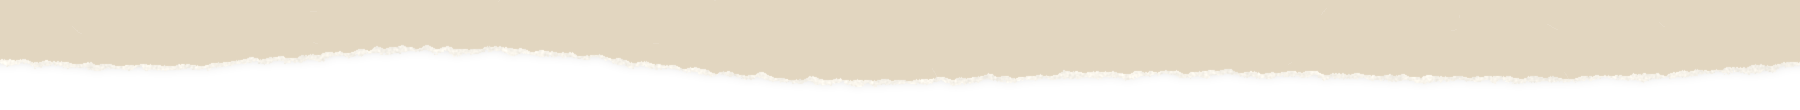
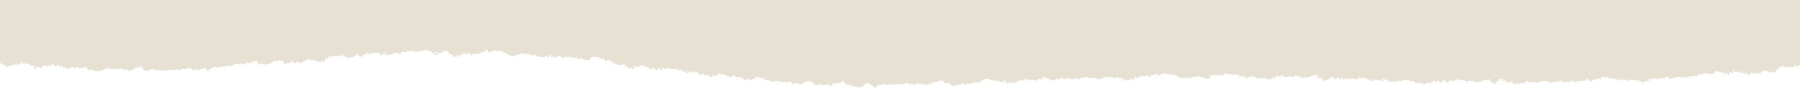
Aplica a paleta do guia visual (Azul & Champagne) com o verde-musgo
- Fundos marfim (#F2EFE6) e champagne (#E7E1D4); terracota suave
  (#CE7A66) nos itálicos; marrom (#8D5A32) nos títulos pequenos e
  anotações; azul do noivo (#7F93A3) na capa
- Verde-musgo mantido nos blocos escuros e botões, com detalhes em
  dourado queimado (#D2B17E): itálicos, títulos pequenos, "+" das
  dúvidas, rodapé e música
- Presentes em rosé terracota (#CC8C7D) com texto escuro
- Pêssego claro (#F1C8B2) no lugar do amarelo; fitas douradas
- Bordas de papel rasgado repintadas e com versão no endereço para
  não ficarem presas no cache

Claude-Session: https://claude.ai/code/session_01MjBZuEXkYrMwf9P5BCvSAk

diff --git a/site/index.html b/site/index.html
@@ -8,8 +8,8 @@
 <style>
 /* Layout: colagem de papel rasgado. Cada seção é uma folha de cor diferente, fotos recortadas à mão por cima, anotações a caneta nas margens. */
 :root{
-  --cream:#EFE8DC; --sand:#E2D6C0; --paper:#F7F3EA;
-  --moss:#3E4C34; --moss-ink:#2A3424; --terra:#C0643F; --terra-deep:#9E4A2A; --sea:#346068;
+  --cream:#F2EFE6; --sand:#E7E1D4; --paper:#F7F3EA;   /* marfim claro e champagne do guia */
+  --moss:#3E4C34; --moss-ink:#2A3424; --terra:#CE7A66; --terra-deep:#8D5A32; --sea:#7F93A3;   /* terracota suave, marrom e azul do noivo */
   --ink:#1F241B; --muted:#5E5A4E; --line:#CFC3AC; --on-dark:#F1EBDF; --on-dark-mute:#C9C6B4;
   --f-display:"Instrument Serif", "Didot", "Bodoni 72", Georgia, serif;
   --f-body:"Manrope", "Avenir Next", "Segoe UI", system-ui, sans-serif;
@@ -34,7 +34,7 @@ h1,h2,h3{font-family:var(--f-display);font-weight:400;line-height:1;text-wrap:ba
 h2{font-size:clamp(2.6rem,6vw,4.6rem)}
 h2 em,h1 em{color:var(--terra)}
 p{margin:0}
-.eyebrow{font:600 .72rem/1.3 var(--f-body);letter-spacing:.24em;text-transform:uppercase;color:var(--muted)}
+.eyebrow{font:600 .72rem/1.3 var(--f-body);letter-spacing:.24em;text-transform:uppercase;color:var(--terra-deep)}
 .hand{font-family:var(--f-hand);line-height:1.3;font-weight:400}
 .lede{max-width:52ch;color:var(--muted);font-size:1.06rem}
 .sec{padding-block:clamp(56px,9vw,110px)}
@@ -43,10 +43,10 @@ p{margin:0}
 /* bordas rasgadas entre folhas */
 .edge{height:clamp(44px,6.2vw,110px);background-repeat:repeat-x;background-position:center bottom;background-size:max(1400px,100%) 100%;margin-top:calc(-1 * clamp(20px,3vw,50px));position:relative;z-index:2;pointer-events:none}
 .edge.b{background-position:center top;margin-top:0;margin-bottom:calc(-1 * clamp(20px,3vw,50px))}
-.bg-sand{background:var(--sand)} .bg-moss{background:var(--moss);color:var(--on-dark)} .bg-terra{background:var(--terra);color:var(--on-dark)}
-.bg-moss .eyebrow,.bg-terra .eyebrow{color:var(--on-dark-mute)}
-.bg-moss h2 em{color:#E7A57F} .bg-terra h2 em{color:var(--moss-ink)}
-.bg-moss .lede,.bg-terra .lede{color:var(--on-dark-mute)}
+.bg-sand{background:var(--sand)} .bg-moss{background:var(--moss);color:var(--on-dark)} .bg-terra{background:#CC8C7D;color:var(--ink)}
+.bg-moss .eyebrow{color:var(--gold)} .bg-terra .eyebrow{color:#3B3530}
+.bg-moss h2 em{color:var(--gold)} .bg-terra h2 em{color:var(--cream)}
+.bg-moss .lede{color:var(--on-dark-mute)} .bg-terra .lede{color:#3B3530}
 
 /* nav */
 .nav{position:sticky;top:env(safe-area-inset-top,0px);z-index:50;background:color-mix(in srgb,var(--cream) 90%,transparent);backdrop-filter:blur(8px);-webkit-backdrop-filter:blur(8px)}
@@ -75,12 +75,12 @@ p{margin:0}
 .r1{background:var(--moss-ink);color:var(--on-dark);font:800 .78em/1 var(--f-body);transform:rotate(-4deg)}
 .r2{background:var(--paper);color:var(--ink);font:italic 400 1em/1 var(--f-display);transform:rotate(3deg)}
 .r3{background:var(--terra);color:var(--paper);font:400 .95em/1 var(--f-display);transform:rotate(-2deg)}
-.r4{background:#F2D7A7;color:var(--ink);font:600 .7em/1 ui-monospace,Menlo,monospace;transform:rotate(5deg)}
+.r4{background:#F1C8B2;color:var(--ink);font:600 .7em/1 ui-monospace,Menlo,monospace;transform:rotate(5deg)}
 .r5{background:var(--sea);color:var(--paper);font:800 .74em/1 var(--f-body);transform:rotate(-6deg)}
 .r6{background:var(--paper);color:var(--terra-deep);font:400 1.05em/1 var(--f-display);transform:rotate(-1deg);text-transform:uppercase}
 
 /* fita adesiva */
-.tape{position:absolute;width:90px;height:26px;background:rgba(236,224,190,.72);box-shadow:0 1px 2px rgba(0,0,0,.08);z-index:3;clip-path:polygon(0 8%,6% 0,12% 10%,20% 2%,30% 6%,100% 0,96% 50%,100% 100%,0 100%,4% 50%)}
+.tape{position:absolute;width:90px;height:26px;background:rgba(210,177,126,.6);box-shadow:0 1px 2px rgba(0,0,0,.08);z-index:3;clip-path:polygon(0 8%,6% 0,12% 10%,20% 2%,30% 6%,100% 0,96% 50%,100% 100%,0 100%,4% 50%)}
 
 /* hero */
 .hero{position:relative;overflow:hidden;padding-top:clamp(24px,4vw,40px)}
@@ -169,7 +169,7 @@ p{margin:0}
 .notebox:nth-child(2){transform:rotate(1deg)}
 .notebox:nth-child(3){transform:rotate(-.6deg)}
 .note-p{display:grid;gap:8px;padding:26px 28px;background:var(--paper)}
-.notebox:nth-child(2) .note-p{background:#F2D7A7}
+.notebox:nth-child(2) .note-p{background:#F1C8B2}
 .note-p h3{font-size:1.7rem}
 .note-p p{color:var(--muted)}
 .note-p .row{margin-top:8px}
@@ -218,7 +218,7 @@ fieldset.field .choice{clear:both}
 .gift:nth-child(odd){transform:rotate(-.8deg)} .gift:nth-child(even){transform:rotate(.7deg)}
 .gift:hover{transform:translateY(-4px) rotate(0)}
 .gift::after{content:"";position:absolute;left:14px;right:14px;bottom:62px;border-top:1.5px dashed var(--line)}
-.gift[aria-pressed="true"]{background:#F2D7A7}
+.gift[aria-pressed="true"]{background:#F1C8B2}
 .gift .k{font:600 .64rem/1.4 var(--f-body);letter-spacing:.22em;text-transform:uppercase;color:var(--terra-deep)}
 .gift h3{font-size:1.7rem}
 .gift p{color:var(--muted);font-size:.93rem;margin-bottom:26px}
@@ -251,14 +251,15 @@ fieldset.field .choice{clear:both}
 details{border-bottom:1px solid rgba(241,235,223,.25)}
 summary{list-style:none;cursor:pointer;display:flex;justify-content:space-between;gap:16px;align-items:center;padding:20px 2px;font:400 1.5rem/1.2 var(--f-display)}
 summary::-webkit-details-marker{display:none}
-summary::after{content:"+";font:300 1.7rem/1 var(--f-body);color:#E7A57F;transition:transform .25s}
+summary::after{content:"+";font:300 1.7rem/1 var(--f-body);color:var(--gold);transition:transform .25s}
 details[open] summary::after{transform:rotate(45deg)}
 details p{padding:0 2px 22px;color:var(--on-dark-mute);max-width:60ch}
 footer{background:var(--moss);color:var(--on-dark);text-align:center}
 footer .wrap{padding-block:20px 64px;display:grid;gap:12px;justify-items:center}
 footer .big{font:400 clamp(1.8rem,5.4vw,4rem)/1.2 var(--f-caps);letter-spacing:.16em;text-transform:uppercase}
 footer .big em{font-family:var(--f-display);text-transform:none;letter-spacing:0;font-size:1.15em}
-footer .big em{color:#E7A57F}
+footer .big em{color:var(--gold)}
+footer .hand{color:var(--gold)!important}
 footer p{color:var(--on-dark-mute)}
 footer .hand{font-size:1.6rem;color:var(--on-dark)}
 
@@ -298,7 +299,7 @@ footer .hand{font-size:1.6rem;color:var(--on-dark)}
 /* capa */
 .cover{position:relative;overflow:hidden;background:var(--sea)}
 .cover video{display:block;width:100%;height:min(88vh,920px);min-height:420px;object-fit:cover;object-position:50% 40%}
-.cover-edge{position:absolute;z-index:2;left:0;right:0;bottom:-2px;height:clamp(70px,11vw,200px);background:url(media/edge-hero.png) center bottom / max(1300px,100%) 100% repeat-x}
+.cover-edge{position:absolute;z-index:2;left:0;right:0;bottom:-2px;height:clamp(70px,11vw,200px);background:url(media/edge-hero.png?v=2) center bottom / max(1300px,100%) 100% repeat-x}
 .cover .sim{position:absolute;right:max(16px,7vw);top:clamp(24px,5vw,70px);font-size:clamp(1.8rem,3.6vw,3.2rem);left:auto}
 .cover-note{position:absolute;right:max(16px,6vw);top:clamp(90px,12vw,190px);font-size:clamp(1.5rem,3vw,2.8rem);color:#fff;transform:rotate(-7deg);text-align:center;text-shadow:0 1px 8px rgba(0,40,70,.35)}
 .names-sec{text-align:center;position:relative;z-index:3;padding-top:clamp(36px,5vw,70px)}
@@ -317,7 +318,7 @@ footer .hand{font-size:1.6rem;color:var(--on-dark)}
 .ph{margin:0;position:relative}
 .ph img{width:100%;height:auto}
 .ph figcaption{font-size:clamp(1.2rem,2vw,1.6rem);margin-top:-14px;padding-left:8%;transform:rotate(-2deg)}
-.bg-moss .ph figcaption,.bg-terra .ph figcaption{color:var(--on-dark)}
+.bg-moss .ph figcaption{color:var(--on-dark)} .bg-terra .ph figcaption{color:var(--ink)}
 .pbreak{padding-block:clamp(30px,6vw,80px)}
 .single{max-width:880px;margin-inline:auto}
 .pair{display:grid;grid-template-columns:1fr 1fr;gap:clamp(16px,5vw,72px);max-width:1080px;margin-inline:auto;align-items:start}
@@ -350,8 +351,8 @@ footer .hand{font-size:1.6rem;color:var(--on-dark)}
 /* faixas de ponta a ponta */
 .band{position:relative;height:clamp(320px,52vw,720px);background-size:cover;background-repeat:no-repeat;margin-top:clamp(10px,2vw,30px)}
 .band-edge{position:absolute;left:0;right:0;height:clamp(60px,9vw,170px);background-repeat:repeat-x;background-size:max(1300px,100%) 100%;pointer-events:none}
-.band-edge.bot{bottom:-2px;background-image:url(media/edge-hero.png);background-position:center bottom}
-.band-edge.top{top:-2px;background-image:url(media/edge-hero-b.png);background-position:center top}
+.band-edge.bot{bottom:-2px;background-image:url(media/edge-hero.png?v=2);background-position:center bottom}
+.band-edge.top{top:-2px;background-image:url(media/edge-hero-b.png?v=2);background-position:center top}
 .band + .edge{margin-top:calc(-1 * clamp(44px,6.2vw,110px) + 2px)}
 .skate-band{position:relative;margin-top:clamp(50px,8vw,100px);width:100%}
 .skate-band video{display:block;width:100%;height:clamp(360px,52vw,760px);object-fit:cover;object-position:50% 50%}
@@ -359,7 +360,7 @@ footer .hand{font-size:1.6rem;color:var(--on-dark)}
 .vids{grid-template-columns:repeat(2,minmax(0,1fr));max-width:760px}
 .vid:nth-child(1){transform:rotate(-2.5deg) translateY(20px)}
 .gift-pics{max-width:900px;margin:0 auto clamp(40px,6vw,70px)}
-.gift-pics .ph figcaption{color:var(--on-dark)}
+.gift-pics .ph figcaption{color:var(--ink)}
 @media (max-width:640px){ .skate-band video{height:70vh} .vids{grid-template-columns:repeat(2,minmax(0,1fr))} }
 .gift-pics{display:flex!important;justify-content:center;align-items:flex-end;gap:clamp(12px,3vw,40px)!important;flex-wrap:nowrap}
 .gift-pics .ph:nth-child(2){margin-top:0}
@@ -385,7 +386,7 @@ footer .hand{font-size:1.6rem;color:var(--on-dark)}
 /* música */
 .music{position:fixed;right:calc(16px + env(safe-area-inset-right,0px));bottom:calc(16px + env(safe-area-inset-bottom,0px));z-index:65;display:inline-flex;align-items:center;gap:10px;padding:10px 16px 10px 12px;border:0;border-radius:999px;background:var(--moss-ink);color:var(--on-dark);font:600 .78rem/1 var(--f-body);letter-spacing:.06em;cursor:pointer;box-shadow:0 6px 18px rgba(0,0,0,.25)}
 .music .bars{display:inline-flex;gap:2px;align-items:flex-end;height:14px}
-.music .bars i{width:3px;height:4px;background:#E7A57F;border-radius:1px}
+.music .bars i{width:3px;height:4px;background:var(--gold);border-radius:1px}
 .music.on .bars i{animation:eq 1s ease-in-out infinite}
 .music.on .bars i:nth-child(2){animation-delay:-.3s}.music.on .bars i:nth-child(3){animation-delay:-.6s}
 @keyframes eq{0%,100%{height:4px}50%{height:14px}}
@@ -635,7 +636,7 @@ html.locked,html.locked body{overflow:hidden}
   <div class="band-edge top" aria-hidden="true"></div>
 </section>
 
-<div class="edge" style="background-image:url(media/edge-moss.png)" aria-hidden="true"></div>
+<div class="edge" style="background-image:url(media/edge-moss.png?v=2)" aria-hidden="true"></div>
 <section class="sec bg-moss" style="padding-top:clamp(40px,6vw,70px);padding-bottom:0" aria-labelledby="t-vid">
   <div class="wrap">
     <div class="head" style="text-align:center;justify-items:center">
@@ -654,7 +655,7 @@ html.locked,html.locked body{overflow:hidden}
   </div>
   <div class="skate-band frame-wrap">
     <video data-src="media/skate.mp4" poster="media/skate-poster.jpg" autoplay muted loop playsinline preload="none" aria-label="Vídeo: Mayara andando de skate sentada no estacionamento"></video>
-    <div class="band-edge top" style="background-image:url(media/edge-moss-b.png)" aria-hidden="true"></div>
+    <div class="band-edge top" style="background-image:url(media/edge-moss-b.png?v=2)" aria-hidden="true"></div>
     <div class="band-edge bot" aria-hidden="true"></div>
   </div>
 </section>
@@ -721,7 +722,7 @@ html.locked,html.locked body{overflow:hidden}
   </div>
 </section>
 
-<div class="edge" style="background-image:url(media/edge-sand.png)" aria-hidden="true"></div>
+<div class="edge" style="background-image:url(media/edge-sand.png?v=2)" aria-hidden="true"></div>
 <section class="sec place bg-sand" id="local">
   <div class="wrap">
     <div class="place-art">
@@ -764,7 +765,7 @@ html.locked,html.locked body{overflow:hidden}
     <figure class="ph single" style="max-width:760px"><img data-src="media/jardim.webp" alt="Os dois num banco de jardim com dois cachorros, em São Leopoldo"><figcaption class="hand">São Leopoldo, RS</figcaption></figure>
   </div>
 </section>
-<div class="edge b" style="background-image:url(media/edge-sand-b.png)" aria-hidden="true"></div>
+<div class="edge b" style="background-image:url(media/edge-sand-b.png?v=2)" aria-hidden="true"></div>
 
 <section class="pbreak lift" aria-label="Foto">
   <div class="wrap">
@@ -872,7 +873,7 @@ html.locked,html.locked body{overflow:hidden}
   </div>
 </section>
 
-<div class="edge" style="background-image:url(media/edge-terra.png)" aria-hidden="true"></div>
+<div class="edge" style="background-image:url(media/edge-terra.png?v=2)" aria-hidden="true"></div>
 <section class="sec bg-terra" id="presentes" style="padding-top:clamp(40px,6vw,70px)">
   <div class="wrap">
     <div class="head">
@@ -899,7 +900,7 @@ html.locked,html.locked body{overflow:hidden}
     </div>
   </div>
 </section>
-<div class="edge b" style="background-image:url(media/edge-terra-b.png)" aria-hidden="true"></div>
+<div class="edge b" style="background-image:url(media/edge-terra-b.png?v=2)" aria-hidden="true"></div>
 
 
 <section class="frogs" id="sapos" aria-label="Sapos de tricô">
@@ -964,7 +965,7 @@ html.locked,html.locked body{overflow:hidden}
   </div>
 </section>
 
-<div class="edge" style="background-image:url(media/edge-moss.png)" aria-hidden="true"></div>
+<div class="edge" style="background-image:url(media/edge-moss.png?v=2)" aria-hidden="true"></div>
 <section class="sec faq bg-moss" id="duvidas" style="padding-top:clamp(40px,6vw,70px)">
   <div class="wrap">
     <div class="head" style="align-content:start">
